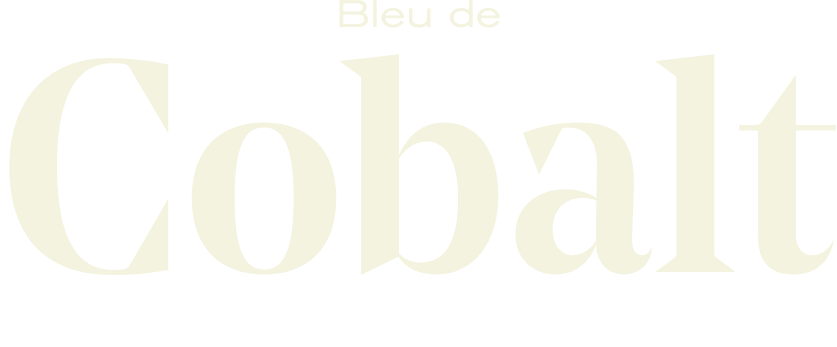
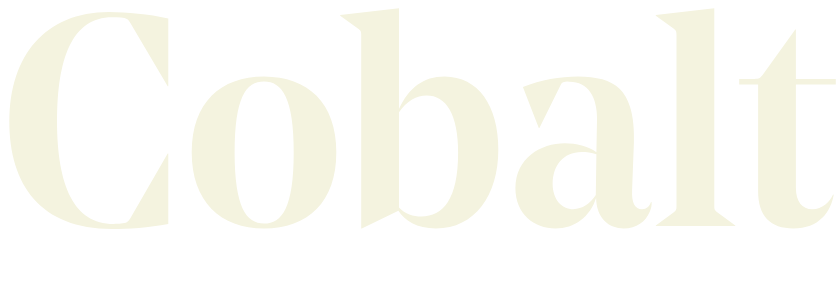
test

diff --git a/css/fullpage.css b/css/fullpage.css
@@ -1,33 +1,23 @@
-/**
- * fullPage 2.7.4
- * https://github.com/alvarotrigo/fullPage.js
- * MIT licensed
- *
- * Copyright (C) 2013 alvarotrigo.com - A project by Alvaro Trigo
- */
 html.fp-enabled,
 .fp-enabled body {
     margin: 0;
-    padding: 0;
+    padding: 20px;
     overflow:hidden;
 
-    /*Avoid flicker on slides transitions for mobile phones #336 */
     -webkit-tap-highlight-color: rgba(0,0,0,0);
 }
 #superContainer {
     height: 100%;
     position: relative;
 
-    /* Touch detection for Windows 8 */
     -ms-touch-action: none;
 
-    /* IE 11 on Windows Phone 8.1*/
     touch-action: none;
 }
 .fp-section {
     position: relative;
-    -webkit-box-sizing: border-box; /* Safari<=5 Android<=3 */
-    -moz-box-sizing: border-box; /* <=28 */
+    -webkit-box-sizing: border-box;
+    -moz-box-sizing: border-box;
     box-sizing: border-box;
 }
 .fp-slide {
@@ -42,7 +32,7 @@ html.fp-enabled,
     height: 100%;
     overflow: hidden;
     position: relative;
-    -webkit-transition: all 0.3s ease-out; /* Safari<=6 Android<=4.3 */
+    -webkit-transition: all 0.3s ease-out;
     transition: all 0.3s ease-out;
 }
 .fp-section.fp-table, .fp-slide.fp-table {
@@ -100,7 +90,7 @@ html.fp-enabled,
     -webkit-transform: translate3d(0,0,0);
 }
 #fp-nav.right {
-    right: 17px;
+    right: 60px;
 }
 #fp-nav.left {
     left: 17px;
@@ -207,42 +197,6 @@ html.fp-enabled,
     height: auto !important;
 }
 
-/*
-@media print {
-
-    html,
-    body {
-        overflow: visible !important;
-        height: auto !important;
-    }
-
-    .fullpage-wrapper {
-        height: auto !important;
-        transform: none !important;
-        transition: none !important;
-    }
-
-    .fp-section {
-        height: auto !important;
-    }
-
-    .fp-slidesContainer {
-        width: auto !important;
-        transition: none !important;
-        transform: none !important;
-    }
-
-    .fp-slides,
-    .fp-slides * {
-        position: static !important;
-    }
-
-    .fp-slide {
-        width: auto !important;
-    }
-}
-*/
-
 @media print {
     html.fp-enabled,
     .fp-enabled body{
@@ -273,7 +227,6 @@ html.fp-enabled,
     .fp-controlArrow{
         display: none !important;
     }
-    /* Need to reduce the size of the fonts for printing */
     h1 { font-size: 28pt !important;  }
     h2 { font-size: 24pt !important; }
     h3 { font-size: 22pt !important; }

diff --git a/index.html b/index.html
@@ -1,5 +1,5 @@
 <!DOCTYPE html>
-<html lang="en" >
+<html lang="fr">
 
 <head>
   <meta charset="UTF-8">
@@ -19,10 +19,13 @@
 </head>
 
 <body>
-
   <container id="fullpage">
-    <section id="container" class="vague-haut">
-      <div><img src="images/titre.png" style="width:500px;"></div>
+    <section id="container" class="vagues">
+      <div>
+        <img src="images/bleu.png" class="bleu" style="width:650px;"><br>
+        <img src="images/titre.png" class="titre" style="width:650px;"><br>
+        <div class="credits"></div>
+      </div>
     </section>
     <section>
       <div><img src="images/titre.png" style="width:200px;"></div>
@@ -33,9 +36,9 @@
     <section>
       <div><img src="images/titre.png" style="width:200px;"></div>
     </section>
+  </container>
 
-</container>
-  <script src='https://cdnjs.cloudflare.com/ajax/libs/jquery/3.1.0/jquery.min.js'></script>
+<script src='https://cdnjs.cloudflare.com/ajax/libs/jquery/3.1.0/jquery.min.js'></script>
 <script src='https://cdnjs.cloudflare.com/ajax/libs/twitter-bootstrap/3.3.7/js/bootstrap.min.js'></script>
 <script src='js/fullPage.js'></script>
 <script src='https://cdnjs.cloudflare.com/ajax/libs/wow/1.1.2/wow.min.js'></script>
@@ -43,10 +46,7 @@
 <script src='https://cdnjs.cloudflare.com/ajax/libs/gsap/1.20.2/utils/Draggable.min.js'></script>
 
 
-
     <script  src="js/index.js"></script>
-
-
 
 
 </body>

diff --git a/css/style.css b/css/style.css
@@ -7,22 +7,31 @@
 ::-webkit-scrollbar-track {
     display: none;
 }
+
+body { padding: 40px; background-color: #F4F3DF; }
+body:before, body:after { content: ""; position: fixed; z-index: 999; background: inherit; left: 0; right: 0; height: 35px; }
+body:before { top: 0; }
+body:after { bottom: 0; }
+
 section {
   font-size: 35px;
   text-align: center;
   color: white;
   font-weight: bold;
   font-family: 'Raleway', sans-serif;
+  overflow: hidden;
 }
 
-.bordure {
-  border: solid #F4F3DF 1em;
-  position:fixed;
-  display:block;
+.vagues {
+  background: url(../images/vague-haut.png) no-repeat right top, url(../images/vague-bas.png) no-repeat -100px bottom;
+  background-size:120%;
+  width:120%;
+  height:1000px;
 }
 
-.vague-haut {
-  background-image: url(../images/vague-haut.png);
-  background-repeat: no-repeat;
-  background-position: center top;
+.credits {
+  background: url(../images/credits.png) no-repeat center;
+  height: 500px;
+  width: 100%;
+  position: absolute;
 }

diff --git a/js/index.js b/js/index.js
@@ -1,20 +1,17 @@
 $(document).ready(function() {
 
-    //activate wow.js
      new WOW().init();
 
-    //activate fullpage.js
     $('#fullpage').fullpage({
       scrollBar: true,
       navigation: true,
-      navigationTooltips: ['Slide 1', 'Slide 2', 'Slide 3', 'Slide 4'],
+      navigationTooltips: ['Home', 'Histoire', 'Créations', 'Arts'],
       loopBottom: true,
       sectionSelector: 'section'
     });
 
-  //apply color to each section from array
   int = -1;
-  color_array = ['#22427C','#c0392b','#9b59b6','#3498db','#f1c40f','#16a085'];
+  color_array = ['#22427C','black','#22427C','black'];
 
   $('section').each(function(){
     int++
@@ -24,8 +21,8 @@ $(document).ready(function() {
 });
 
 $("#container").mousemove(function(e) {
-  parallaxIt(e, ".slide", -100);
-  parallaxIt(e, "img", 200);
+  parallaxIt(e, ".bleu", -100);
+  parallaxIt(e, ".titre", 250);
 });
 
 function parallaxIt(e, target, movement) {
